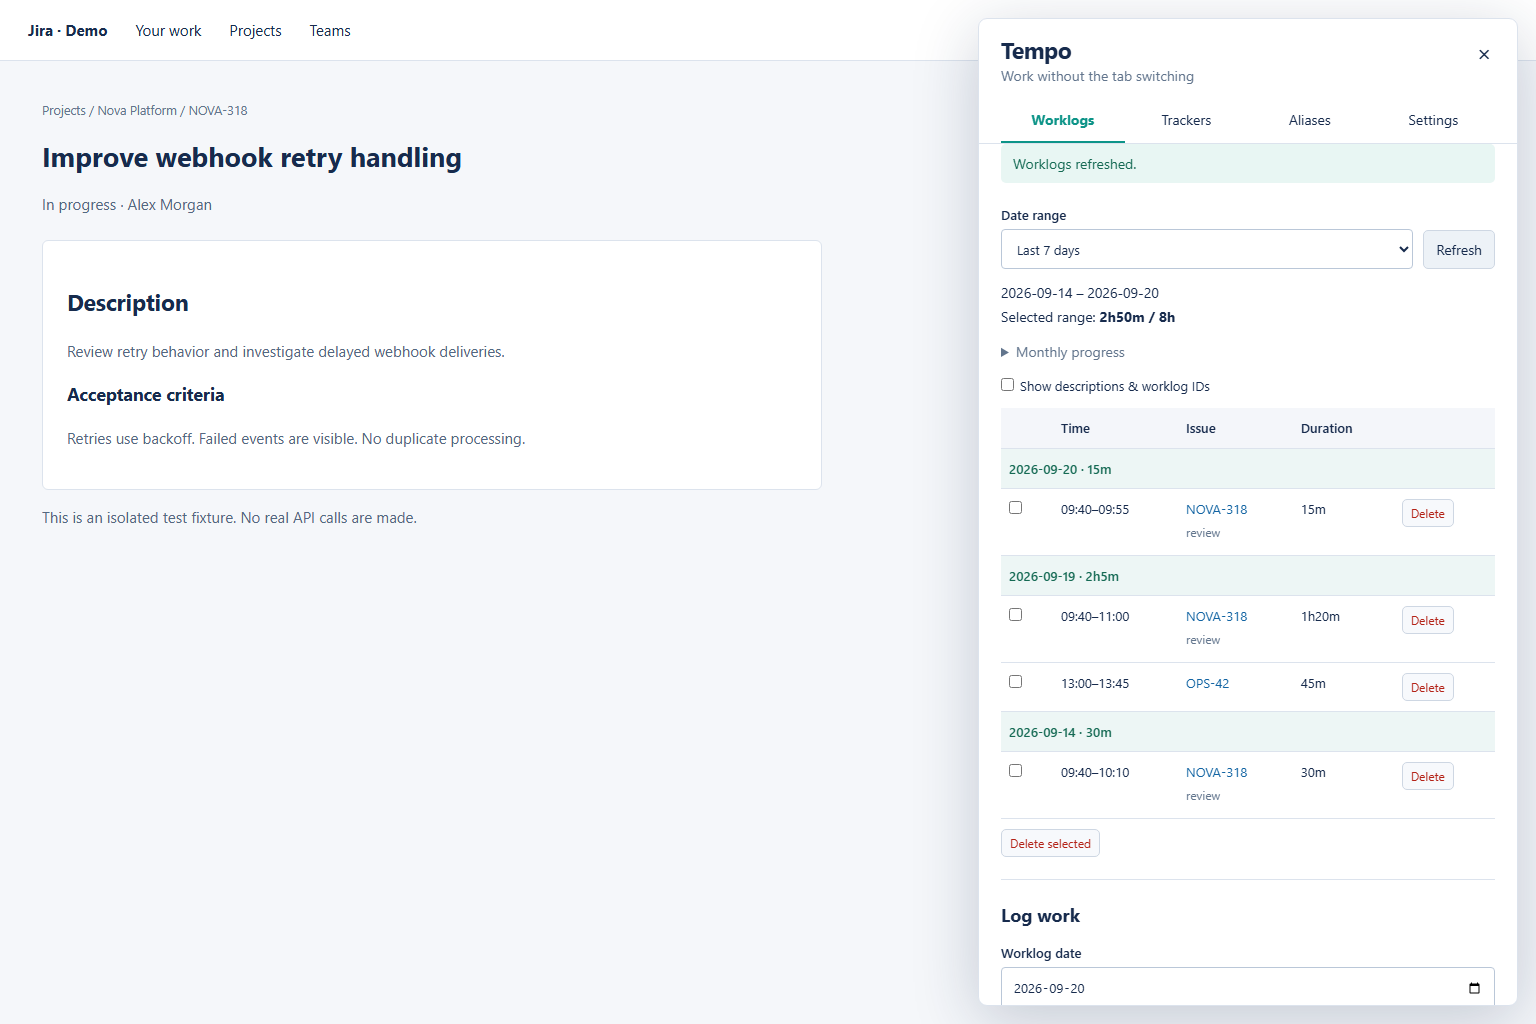
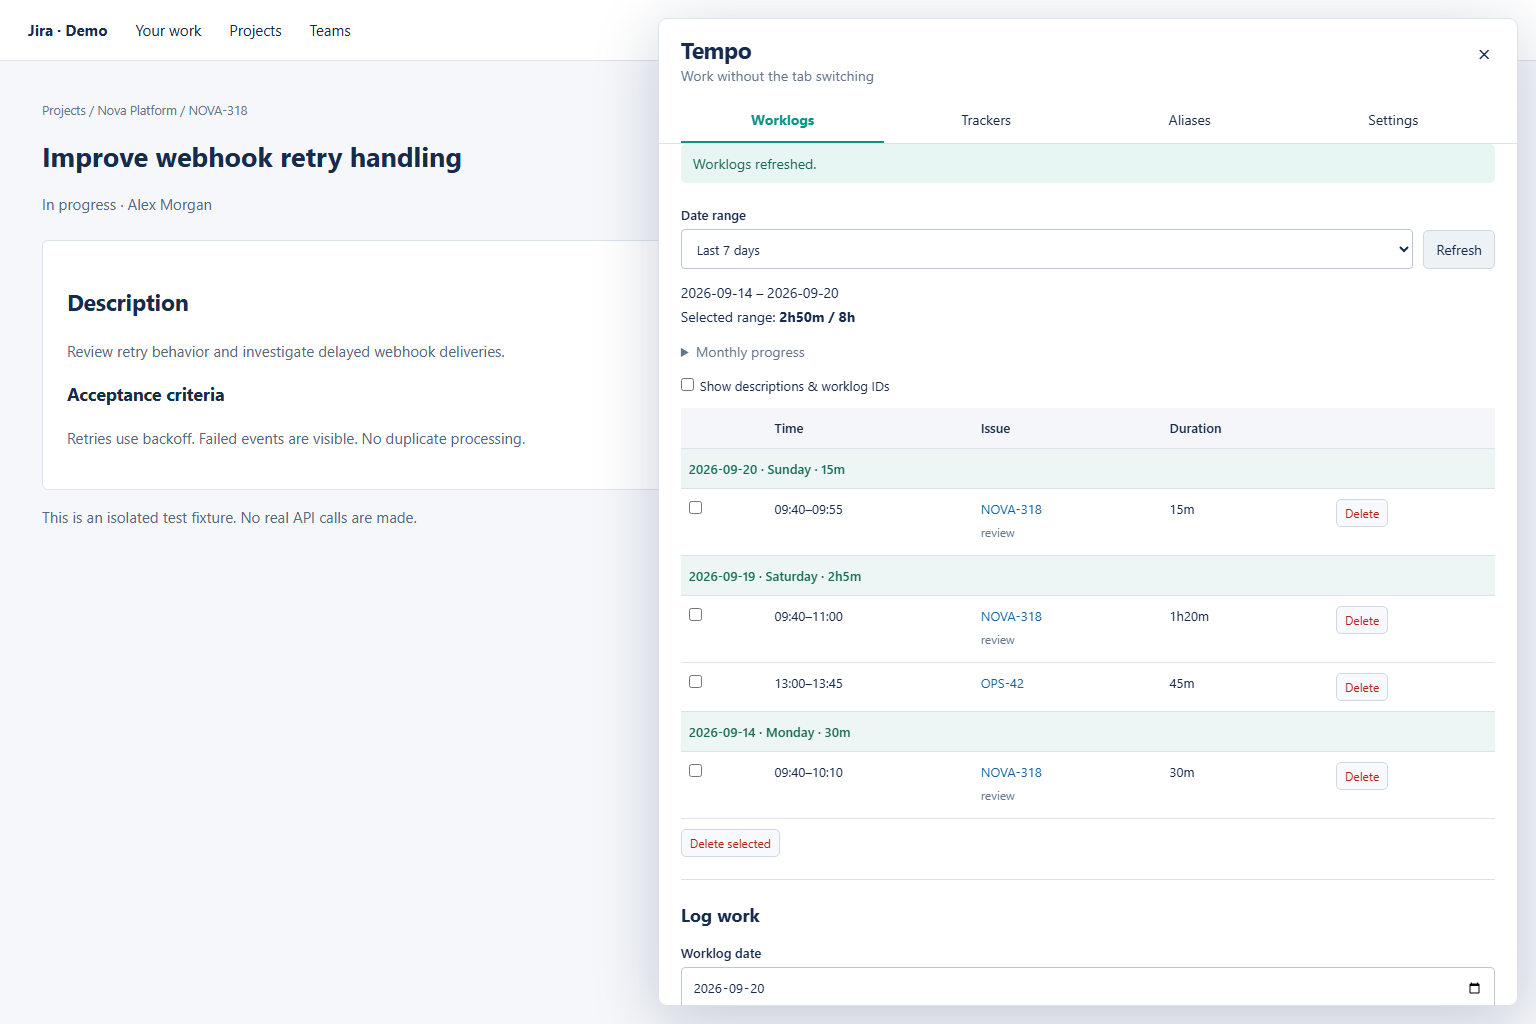
Adapt panel width to the viewport and show weekdays in worklogs

diff --git a/dist/tempo.user.js b/dist/tempo.user.js
@@ -1,7 +1,7 @@
 // ==UserScript==
 // @name         Tempo for Jira
 // @namespace    https://github.com/contione/tampermonkey-userscript
-// @version      0.1.3
+// @version      0.1.4
 // @description  Worklogs, schedules, aliases and persistent time trackers inside Jira Cloud.
 // @author       contione
 // @license      MIT
@@ -675,7 +675,7 @@ button:hover { background: #edf2f7; } button:disabled { cursor: wait; opacity: .
 button:focus-visible,input:focus-visible,textarea:focus-visible,select:focus-visible,a:focus-visible { outline: 2px solid #0d9488; outline-offset: 2px; }
 .launcher { position: fixed; right: 0; top: 50%; transform: translateY(-50%); background: #0d9488; color: white; border: 0; border-radius: 24px 0 0 24px; padding: 13px 18px; font-weight: 650; box-shadow: 0 6px 24px #172b4d33; }
 .launcher:hover,.primary:hover { background: #0b7b72; }
-.panel { position: fixed; top: 18px; right: 18px; bottom: 18px; width: 540px; max-width: calc(100vw - 36px); background: #fff; border: 1px solid #dce3ed; border-radius: 9px; box-shadow: 0 14px 65px #172b4d38; display: flex; flex-direction: column; overflow: hidden; }
+.panel { position: fixed; top: 18px; right: 18px; bottom: 18px; width: clamp(640px, 56vw, 1040px); max-width: calc(100vw - 36px); background: #fff; border: 1px solid #dce3ed; border-radius: 9px; box-shadow: 0 14px 65px #172b4d38; display: flex; flex-direction: column; overflow: hidden; }
 header { padding: 16px 22px 12px; display: flex; justify-content: space-between; align-items: flex-start; }
 h1 { font-size: 23px; line-height: 1.3; margin: 0; letter-spacing: -.6px; } h2 { margin: 22px 0 14px; font-size: 18px; } p { margin: 4px 0 14px; } .muted,small { color: #62758d; } small { font-size: 12px; }
 .close { background: none; border: 0; font-size: 23px; padding: 0 3px; }
@@ -1222,7 +1222,8 @@ hr { border: 0; border-top: 1px solid #dce3ed; margin: 22px 0 0; } .actions { di
       <div class="table-wrap"><table><thead><tr><th></th><th>Time</th><th>Issue</th><th>Duration</th><th></th></tr></thead>
       ${dates.map((date) => {
           const dayLogs = rangeLogs.filter((w) => w.startDate === date);
-          return `<tbody aria-label="Worklogs on ${date}"><tr class="day-heading"><th colspan="5" scope="rowgroup">${date} · ${duration(sum(dayLogs))}</th></tr>
+          const weekday = (/* @__PURE__ */ new Date(`${date}T12:00:00`)).toLocaleDateString("en", { weekday: "long" });
+          return `<tbody aria-label="Worklogs on ${escape(date)}"><tr class="day-heading"><th colspan="5" scope="rowgroup">${escape(date)} · ${weekday} · ${duration(sum(dayLogs))}</th></tr>
         ${dayLogs.map((w) => `<tr><td><input type="checkbox" aria-label="Select worklog ${escape(w.id)}" data-select="${escape(w.id)}" ${selected.has(w.id) ? "checked" : ""}></td><td class="nowrap">${escape(w.startTime.slice(0, 5))}–${endTime(w)}</td><td><a target="_blank" rel="noopener noreferrer" href="https://${location.hostname}/browse/${encodeURIComponent(issueKeys.get(w.issueId) || w.issueId)}">${escape(issueKeys.get(w.issueId) || `#${w.issueId}`)}</a>${aliasLabels(state, w)}${verbose ? `<p>${escape(w.description)}</p><small>#${escape(w.id)}</small>` : ""}</td><td>${duration(w.timeSpentSeconds)}</td><td>${button("delete", "Delete", w.id, "small danger")}</td></tr>`).join("")}</tbody>`;
         }).join("")}</table></div>${loaded && !rangeLogs.length ? '<p class="empty">No worklogs for this range.</p>' : ""}
       ${rangeLogs.length ? `<div class="actions">${button("delete-selected", "Delete selected", void 0, "small danger")}</div>` : ""}

diff --git a/src/main.ts b/src/main.ts
@@ -346,7 +346,8 @@ function mount(): void {
       <div class="table-wrap"><table><thead><tr><th></th><th>Time</th><th>Issue</th><th>Duration</th><th></th></tr></thead>
       ${dates.map(date => {
         const dayLogs = rangeLogs.filter(w => w.startDate === date)
-        return `<tbody aria-label="Worklogs on ${date}"><tr class="day-heading"><th colspan="5" scope="rowgroup">${date} · ${duration(sum(dayLogs))}</th></tr>
+        const weekday = new Date(`${date}T12:00:00`).toLocaleDateString('en', { weekday: 'long' })
+        return `<tbody aria-label="Worklogs on ${escape(date)}"><tr class="day-heading"><th colspan="5" scope="rowgroup">${escape(date)} · ${weekday} · ${duration(sum(dayLogs))}</th></tr>
         ${dayLogs.map(w => `<tr><td><input type="checkbox" aria-label="Select worklog ${escape(w.id)}" data-select="${escape(w.id)}" ${selected.has(w.id) ? 'checked' : ''}></td><td class="nowrap">${escape(w.startTime.slice(0,5))}–${endTime(w)}</td><td><a target="_blank" rel="noopener noreferrer" href="https://${location.hostname}/browse/${encodeURIComponent(issueKeys.get(w.issueId) || w.issueId)}">${escape(issueKeys.get(w.issueId) || `#${w.issueId}`)}</a>${aliasLabels(state,w)}${verbose ? `<p>${escape(w.description)}</p><small>#${escape(w.id)}</small>` : ''}</td><td>${duration(w.timeSpentSeconds)}</td><td>${button('delete','Delete',w.id,'small danger')}</td></tr>`).join('')}</tbody>`
       }).join('')}</table></div>${loaded && !rangeLogs.length ? '<p class="empty">No worklogs for this range.</p>' : ''}
       ${rangeLogs.length ? `<div class="actions">${button('delete-selected','Delete selected',undefined,'small danger')}</div>` : ''}

diff --git a/src/styles.ts b/src/styles.ts
@@ -6,7 +6,7 @@ button:hover { background: #edf2f7; } button:disabled { cursor: wait; opacity: .
 button:focus-visible,input:focus-visible,textarea:focus-visible,select:focus-visible,a:focus-visible { outline: 2px solid #0d9488; outline-offset: 2px; }
 .launcher { position: fixed; right: 0; top: 50%; transform: translateY(-50%); background: #0d9488; color: white; border: 0; border-radius: 24px 0 0 24px; padding: 13px 18px; font-weight: 650; box-shadow: 0 6px 24px #172b4d33; }
 .launcher:hover,.primary:hover { background: #0b7b72; }
-.panel { position: fixed; top: 18px; right: 18px; bottom: 18px; width: 540px; max-width: calc(100vw - 36px); background: #fff; border: 1px solid #dce3ed; border-radius: 9px; box-shadow: 0 14px 65px #172b4d38; display: flex; flex-direction: column; overflow: hidden; }
+.panel { position: fixed; top: 18px; right: 18px; bottom: 18px; width: clamp(640px, 56vw, 1040px); max-width: calc(100vw - 36px); background: #fff; border: 1px solid #dce3ed; border-radius: 9px; box-shadow: 0 14px 65px #172b4d38; display: flex; flex-direction: column; overflow: hidden; }
 header { padding: 16px 22px 12px; display: flex; justify-content: space-between; align-items: flex-start; }
 h1 { font-size: 23px; line-height: 1.3; margin: 0; letter-spacing: -.6px; } h2 { margin: 22px 0 14px; font-size: 18px; } p { margin: 4px 0 14px; } .muted,small { color: #62758d; } small { font-size: 12px; }
 .close { background: none; border: 0; font-size: 23px; padding: 0 3px; }

diff --git a/e2e/panel.spec.ts b/e2e/panel.spec.ts
@@ -228,6 +228,9 @@ test('defaults to the last seven days, groups newest dates first and changes wee
   expect(await page.locator('tbody[aria-label]').evaluateAll(nodes => nodes.map(node => node.getAttribute('aria-label')))).toEqual([
     'Worklogs on 2026-09-20', 'Worklogs on 2026-09-19', 'Worklogs on 2026-09-14'
   ])
+  await expect(page.getByRole('rowheader', {name: '2026-09-20 · Sunday · 15m', exact: true})).toBeVisible()
+  await expect(page.getByRole('rowheader', {name: '2026-09-19 · Saturday · 2h5m', exact: true})).toBeVisible()
+  await expect(page.getByRole('rowheader', {name: '2026-09-14 · Monday · 30m', exact: true})).toBeVisible()
   await expect(page.getByLabel('Select worklog 941002')).toHaveCount(0)
   await expect(page.getByLabel('Select worklog 941004')).toHaveCount(0)
   if (process.env.TEMPO_QA_DIR) {

diff --git a/dist/tempo.meta.js b/dist/tempo.meta.js
@@ -1,7 +1,7 @@
 // ==UserScript==
 // @name         Tempo for Jira
 // @namespace    https://github.com/contione/tampermonkey-userscript
-// @version      0.1.3
+// @version      0.1.4
 // @description  Worklogs, schedules, aliases and persistent time trackers inside Jira Cloud.
 // @author       contione
 // @license      MIT

diff --git a/README.md b/README.md
@@ -16,7 +16,7 @@ View your recent worklogs grouped by date and schedule totals, then log time wit
 
 ### Narrow screens
 
-The panel fills the available width and scrolls vertically to keep all controls accessible.
+The panel grows with your browser window to give the worklog table more room. On narrow screens it fills the available width and scrolls vertically to keep all controls accessible.
 
 <img src="docs/images/mobile.png" alt="Tempo panel at a 390-pixel viewport, showing date range controls and daily worklog groups" width="390">
 
@@ -43,7 +43,7 @@ Saved token fields remain blank. Leave them blank to keep existing tokens, or en
 
 ## Worklogs
 
-- The list opens on **Last 7 days**, including today, with the newest date first and a total for each day.
+- The list opens on **Last 7 days**, including today, with the newest date first. Each daily heading shows the date, weekday and total logged time.
 - Choose **This week** or **Last week** for a Monday-to-Sunday range. Preset changes refresh the list automatically.
 - Choose **Custom**, pick **From** and **To** using the calendar controls, then select **Apply dates**. Both dates are inclusive.
 - The range summary shows logged and scheduled hours for the displayed dates. Expand **Monthly progress** for full-month totals, shown separately for every month touched by the range.
